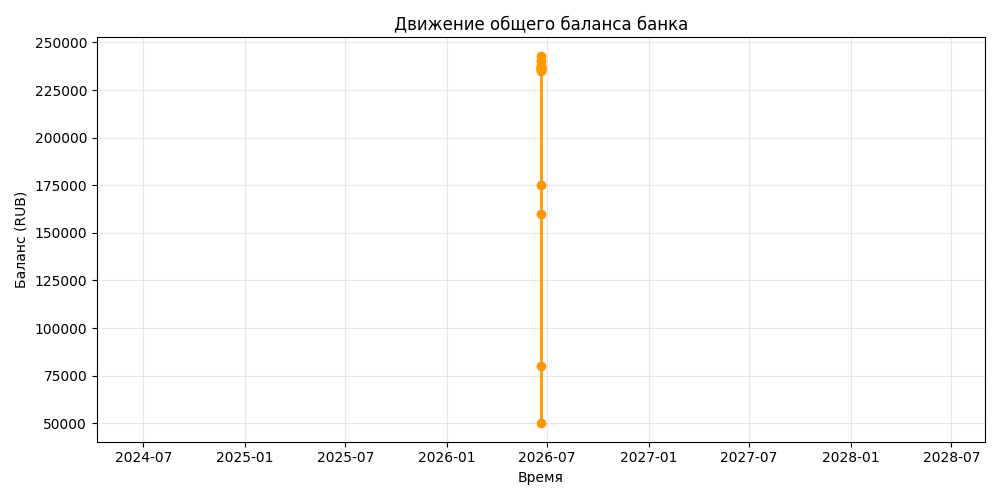
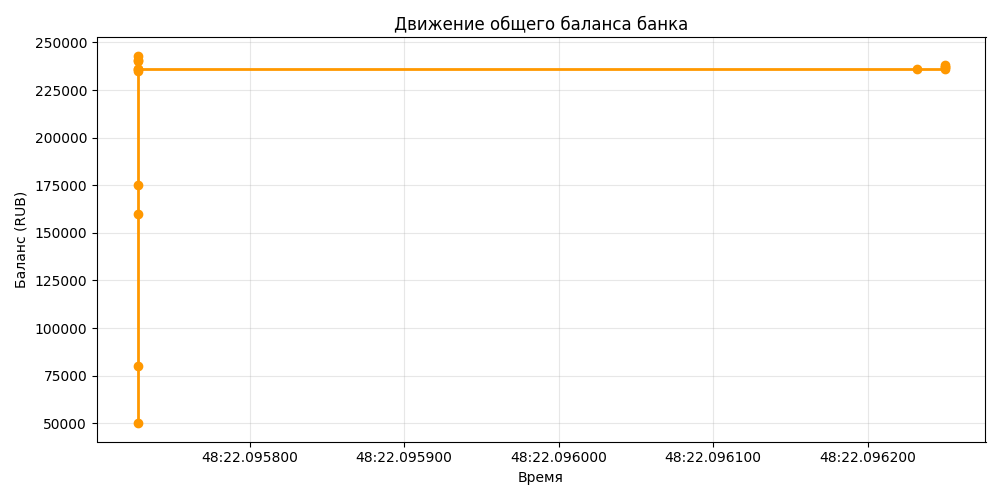
fix demos

diff --git a/src/demos/demo2.py b/src/demos/demo2.py
@@ -1,3 +1,4 @@
+import _path  # noqa: F401
 from accounts import AccountStatus, BankAccount, InsufficientFundsError, AccountFrozenError, InvalidOperationError
 from account_types import SavingsAccount, PremiumAccount, InvestmentAccount
 

diff --git a/src/demos/demo6.py b/src/demos/demo6.py
@@ -1,3 +1,4 @@
+import _path  # noqa: F401
 from bank import Bank, Client
 from accounts import BankAccount, AccountStatus, InvalidOperationError
 from account_types import SavingsAccount, PremiumAccount, InvestmentAccount

diff --git a/src/demos/demo3.py b/src/demos/demo3.py
@@ -1,3 +1,4 @@
+import _path  # noqa: F401
 from bank import Bank, Client
 from accounts import BankAccount, AccountStatus, InvalidOperationError
 from account_types import SavingsAccount

diff --git a/src/demos/demo7.py b/src/demos/demo7.py
@@ -1,3 +1,4 @@
+import _path  # noqa: F401
 from bank import Bank, Client
 from accounts import BankAccount
 from account_types import SavingsAccount, PremiumAccount, InvestmentAccount

diff --git a/src/demos/demo1.py b/src/demos/demo1.py
@@ -1,3 +1,4 @@
+import _path  # noqa: F401 — добавляет src/ в sys.path
 from accounts import AccountStatus, BankAccount, InsufficientFundsError, AccountFrozenError
 
 

diff --git a/src/demos/_path.py b/src/demos/_path.py
@@ -1,0 +1,6 @@
+import sys
+from pathlib import Path
+
+SRC_DIR = Path(__file__).resolve().parent.parent
+if str(SRC_DIR) not in sys.path:
+    sys.path.insert(0, str(SRC_DIR))

diff --git a/src/demos/demo5.py b/src/demos/demo5.py
@@ -1,3 +1,4 @@
+import _path  # noqa: F401
 from bank import Bank, Client
 from accounts import BankAccount, InvalidOperationError
 from audit import AuditReport, AuditLevel

diff --git a/src/demos/demo4.py b/src/demos/demo4.py
@@ -1,3 +1,4 @@
+import _path  # noqa: F401
 from bank import Bank, Client
 from accounts import BankAccount, InvalidOperationError
 from account_types import PremiumAccount

diff --git a/README.md b/README.md
@@ -1,21 +1,51 @@
 # Banking System OOP Project
 
+
+## Структура
+
+```
+src/
+  accounts.py       — базовые счета и исключения
+  account_types.py  — Savings, Premium, Investment
+  bank.py           — банк и клиенты
+  transactions.py   — транзакции, очередь, процессор
+  audit.py          — аудит и риск-анализ
+  reports.py        — отчёты и графики
+  demos/            — демонстрации по дням 1–7
+reports/            — JSON, CSV, графики (генерирует demo7)
+logs/               — файлы аудита
+```
+
+## Установка
+
+
+
+**pip:**
+```powershell
+pip install -r requirements.txt
+```
+
 ## Запуск
 
-Перед запуском демо установить PYTHONPATH:
+Из корня проекта:
 
-**Windows (PowerShell):**
 ```powershell
-$env:PYTHONPATH = "src"
+python src/demos/demo1.py   # День 1 — базовые счета
+python src/demos/demo2.py   # День 2 — типы счетов
+python src/demos/demo3.py   # День 3 — банк и клиенты
+python src/demos/demo4.py   # День 4 — транзакции и очередь
+python src/demos/demo5.py   # День 5 — аудит и риски
+python src/demos/demo6.py   # День 6 — полная симуляция
+python src/demos/demo7.py   # День 7 — отчёты и графики
 ```
 
-**Linux/Mac:**
-```bash
-export PYTHONPATH=src
-```
+## Результаты
 
-Затем запустить демо:
-```bash
-python demos/demo1.py
-python demos/demo2.py
-```
+После `demo7` в папке `reports/`:
+- `report.json`, `transactions.csv`
+- `chart_transaction_status.png`
+- `chart_balance_by_client.png`
+- `chart_transaction_types.png`
+- `chart_balance_movement.png`
+
+Логи аудита сохраняются в `logs/`.
